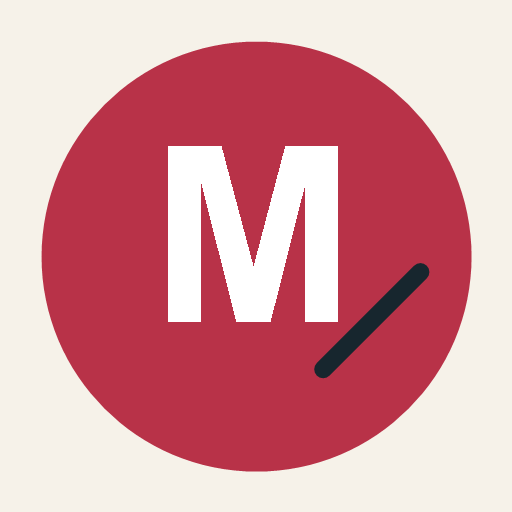
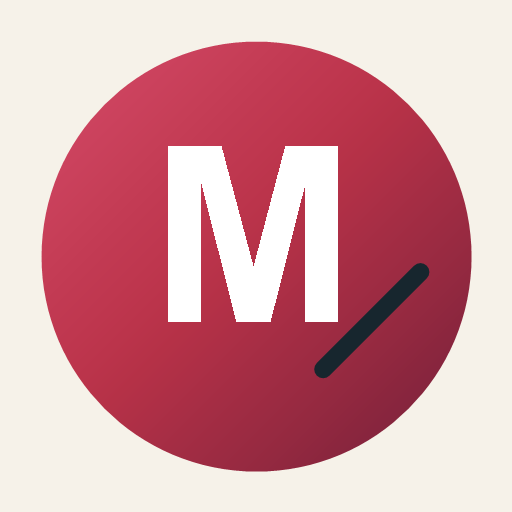
Add files via upload

Changed region(s): [[0.375, 0.375, 0.9375, 0.9375]]

diff --git a/app.css b/app.css
@@ -1,4 +1,7 @@
 :root{--ink:#17262e;--coral:#e8453c;--cream:#f6f2e9;--line:#d7dcd9;--muted:#6f7d82}*{box-sizing:border-box}html,body{margin:0;min-height:100%;font-family:Arial,sans-serif;color:var(--ink);background:var(--cream)}button,input{font:inherit}button{border:0;border-radius:10px;font-weight:700;color:inherit;cursor:pointer}header{height:72px;padding:0 24px;background:#fffdf8;border-bottom:1px solid var(--line);display:flex;align-items:center;justify-content:space-between}.brand{display:flex;align-items:center;gap:11px}.brand>b{width:40px;height:40px;border-radius:12px 12px 12px 4px;background:var(--coral);color:#fff;display:grid;place-items:center;font-size:20px}.brand span{display:flex;flex-direction:column}.brand small,.filebar small{display:block;color:var(--muted);margin-top:3px;font-size:11px}.head-actions,.file-actions{display:flex;gap:8px;align-items:center}.primary{background:var(--coral);color:#fff;padding:12px 16px}.install{background:#e4f2e9;color:#247652;padding:11px 14px}main{display:grid;grid-template-columns:210px 1fr;height:calc(100vh - 72px)}aside{background:#fffdf8;border-right:1px solid var(--line);padding:16px 12px;overflow:auto;display:flex;flex-direction:column;gap:16px}nav{display:grid;grid-template-columns:1fr 1fr;gap:7px}nav button{height:64px;background:#f0eee7;color:#59666b;font-size:10px;display:flex;flex-direction:column;align-items:center;justify-content:center;gap:4px}nav button b{font:24px Georgia}nav button.active{background:#fff0ec;color:var(--coral);outline:1px solid var(--coral)}aside section{border-top:1px solid #e2e5e2;padding-top:13px}aside label{font-size:12px;font-weight:800;display:flex;justify-content:space-between;margin-bottom:8px}aside input{width:100%}#colors{display:flex;gap:6px;flex-wrap:wrap;margin-bottom:8px}#colors button{width:27px;height:27px;border-radius:50%;border:2px solid #fff;box-shadow:0 0 0 1px #bbb}#colors button.selected{box-shadow:0 0 0 2px var(--ink)}#text{border:1px solid #cbd1ce;padding:9px;border-radius:8px;margin-bottom:10px}.history{margin-top:auto;display:grid;grid-template-columns:1fr 1fr;gap:6px}.history button{padding:9px 2px;font-size:10px}article{min-width:0;display:flex;flex-direction:column}.filebar{min-height:62px;background:#fffdf8;border-bottom:1px solid var(--line);padding:8px 16px;display:flex;align-items:center;justify-content:space-between;gap:12px}.file-actions>button,.file-actions span button{padding:9px;background:#f0eee7;font-size:11px}.file-actions .danger{color:#bd3832;background:#fff0ed}.file-actions .dark{background:var(--ink);color:white}.file-actions button:disabled{opacity:.4}#folderNav{display:flex;align-items:center;border:1px solid #ddd;border-radius:9px;overflow:hidden}#folderNav i{font-size:10px;color:var(--muted);font-style:normal}.stage{flex:1;overflow:auto;display:grid;place-items:center;padding:24px;background-color:#e9e6de;background-image:radial-gradient(#d3cfc5 1px,transparent 1px);background-size:18px 18px}#empty{text-align:center;max-width:620px}.paper{width:88px;height:110px;background:white;border:1px solid #ccc;border-radius:6px;margin:0 auto 20px;display:grid;place-items:center;color:var(--coral);font-size:30px;box-shadow:8px 8px 0 #f8f5ee}h1{font:700 clamp(28px,4vw,42px) Georgia;margin:0 0 12px}#empty>p{color:var(--muted);line-height:1.5}.sources{display:flex;justify-content:center;gap:8px;flex-wrap:wrap}.sources button{background:#fff;border:1px solid #cbd1cf;padding:11px;min-width:140px;display:flex;align-items:center;gap:9px;text-align:left}.sources button>b{width:30px;height:30px;background:#fff0ec;color:var(--coral);border-radius:8px;display:grid;place-items:center}.sources span{display:flex;flex-direction:column;font-size:11px}.sources small{font-weight:400;color:var(--muted);font-size:9px;margin-top:3px}.chips{margin-top:20px;display:flex;justify-content:center;gap:8px}.chips span{background:#ffffffaa;border:1px solid #d1cec6;border-radius:99px;padding:7px 10px;font-size:10px}canvas{display:none;max-width:100%;max-height:calc(100vh - 180px);background:white;box-shadow:0 12px 40px #28303126;touch-action:none}canvas.show{display:block}dialog{border:0;border-radius:18px;padding:28px;max-width:420px;box-shadow:0 20px 70px #0004}dialog::backdrop{background:#17262eaa}.close{float:right;background:transparent;font-size:24px}
 @media(max-width:760px){header{height:62px;padding:0 10px}.brand small{display:none}.head-actions button{padding:9px;font-size:11px}main{height:calc(100vh - 62px);grid-template-columns:1fr;grid-template-rows:auto 1fr}aside{padding:8px;flex-direction:row;align-items:center;overflow-x:auto;border-right:0;border-bottom:1px solid var(--line)}nav{display:flex;flex:none}nav button{width:56px;height:52px}aside section{border-top:0;border-left:1px solid #ddd;padding:0 0 0 9px;min-width:130px}.history{display:flex;margin:0}.history button{width:54px;height:42px;font-size:0}.history button:first-letter{font-size:20px}.filebar{padding:6px 8px}.file-actions{gap:4px}.file-actions>button{font-size:0;width:34px;height:34px;padding:0}.file-actions>button:first-letter{font-size:16px}.stage{padding:12px}.sources button{min-width:140px}canvas{max-height:calc(100vh - 225px)}}
 
-:root{--coral:#b83248}
+:root{--coral:#b83248;--coral-gradient:linear-gradient(135deg,#d64a68 0%,#b83248 48%,#722039 100%)}
+.brand>b,.primary{background:var(--coral-gradient)}
+.sources button>b{background:var(--coral-gradient);color:#fff}
+.primary:hover,.sources button:hover>b{filter:brightness(.92)}

diff --git a/sw.js b/sw.js
@@ -1,4 +1,4 @@
-const C="marcafacil-github-v2",A=["./","./index.html","./app.css","./app.js","./manifest.webmanifest","./icon-192.png","./icon-512.png","./vendor/pdf.min.mjs","./vendor/pdf.worker.min.mjs","./vendor/jspdf.umd.min.js"];
+const C="marcafacil-github-v3",A=["./","./index.html","./app.css","./app.js","./manifest.webmanifest","./icon-192.png","./icon-512.png","./vendor/pdf.min.mjs","./vendor/pdf.worker.min.mjs","./vendor/jspdf.umd.min.js"];
 self.addEventListener("install",e=>{
   e.waitUntil(caches.open(C).then(c=>c.addAll(A)));
   self.skipWaiting();
